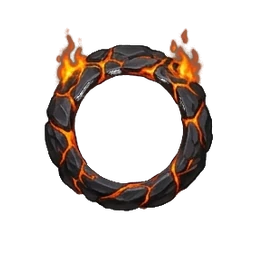
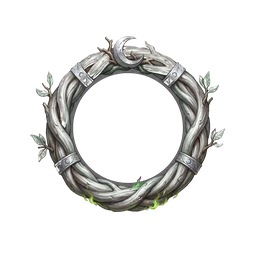
«Страж Хиджала»: иконка и рамка под Хиджал вместо огненных
Нордрассил под луной со скверной у корней; рамка из серебристого дерева
с полумесяцем. Новые адреса ?v=2: Cloudflare держит assets 30 дней.

Changed region(s): [[0.125, 0.0938, 0.875, 0.8438]]

diff --git a/assets/me/me.js b/assets/me/me.js
@@ -131,7 +131,7 @@
       el.className = 'me-toast' + (t.kind === 'rank' ? ' rank' : '') + (SMALL.test(t.kind) ? ' sm' : '') + (reduced() ? '' : ' anim');
       if (SMALL.test(t.kind)) {   // one quiet line: a report sent, a level confirmed
         el.innerHTML = `<span class="me-tt"><b>${esc(t.text || G[t.id] || '')}</b></span>`;
-      } else el.innerHTML = `<span class="me-ti">${t.kind === 'rank' ? `<span class="me-ring fr-${esc(t.id)}">${img(face(state), 40)}</span>` : `<img src="${ROOT}assets/me/ach/${esc(t.id)}.webp" alt="" width="44" height="44">`}</span>
+      } else el.innerHTML = `<span class="me-ti">${t.kind === 'rank' ? `<span class="me-ring fr-${esc(t.id)}">${img(face(state), 40)}</span>` : `<img src="${ROOT}assets/me/ach/${esc(t.id)}.webp${t.id === 'molten_core' ? '?v=2' : ''}" alt="" width="44" height="44">`}</span>
         <span class="me-tt"><small>${esc(t.kind === 'rank' ? T.ui.rankUp : T.ui.got)}</small><b>${esc(t.kind === 'rank' ? T.ranks[t.id] || t.id : a[0])}</b></span>
         ${pts ? `<span class="me-shield" aria-label="${esc(pts + ' ' + (T.ui.pts || ''))}">${pts}</span>` : ''}`;
       box.append(el);

diff --git a/assets/me/me.css b/assets/me/me.css
@@ -12,7 +12,7 @@
 .fr-bronze { --fr: url(frames/bronze.webp); } .fr-silver { --fr: url(frames/silver.webp); } .fr-gold { --fr: url(frames/gold.webp); }
 .fr-relite { --fr: url(frames/relite.webp); } .fr-epic { --fr: url(frames/epic.webp); } .fr-legend { --fr: url(frames/legend.webp); }
 .fr-boss { --fr: url(frames/boss.webp); } .fr-founder { --fr: url(frames/founder.webp?v=2); } .fr-dragon { --fr: url(frames/dragon.webp); }
-.fr-fire { --fr: url(frames/fire.webp); } .fr-secrets { --fr: url(frames/secrets.webp); } .fr-recruiter { --fr: url(frames/recruiter.webp); }
+.fr-fire { --fr: url(frames/fire.webp?v=2); } .fr-secrets { --fr: url(frames/secrets.webp); } .fr-recruiter { --fr: url(frames/recruiter.webp); }
 .fr-history { --fr: url(frames/history.webp); } .fr-ether { --fr: url(frames/ether.webp); } .fr-tavern { --fr: url(frames/tavern.webp); }
 .fr-scholar { --fr: url(frames/scholar.webp); } .fr-first60 { --fr: url(frames/first60.webp); } .fr-sixty { --fr: url(frames/sixty.webp); }
 .fr-raid { --fr: url(frames/raid.webp); } .fr-master { --fr: url(frames/master.webp); } .fr-friend { --fr: url(frames/friend.webp); }

diff --git a/me-pages.src.js b/me-pages.src.js
@@ -37,7 +37,8 @@ const subline = c => `${esc(race(c.race).n)} · ${esc(cls(c.class).n)}`;
 const profLine = (c, hi) => [[c.prof1, c.prof1_skill], [c.prof2, c.prof2_skill]].filter(p => p[0])
   .map(([p, s]) => (p === hi ? '<b>' : '') + esc(GD.profs[p] || p) + (s ? ` ${s}` : '') + (p === hi ? '</b>' : '')).join(', ');
 const playerUrl = id => `${HOME}u/#${id}`;
-const achIcon = id => `${ROOT}assets/me/ach/${id}.webp`;   // painted icons; secret.webp hides an unfound secret
+const ACH_V = { molten_core: 2 };   // a redrawn icon gets a new address: Cloudflare keeps /wow/assets/ for 30 days
+const achIcon = id => `${ROOT}assets/me/ach/${id}.webp${ACH_V[id] ? '?v=' + ACH_V[id] : ''}`;   // painted icons; secret.webp hides an unfound secret
 const dateOf = t => new Date(t).toLocaleDateString(HL);
 const unit = (n, u) => new Intl.NumberFormat(HL, { style: 'unit', unit: u, unitDisplay: 'short', maximumFractionDigits: 0 }).format(n);
 function ago(t) {
